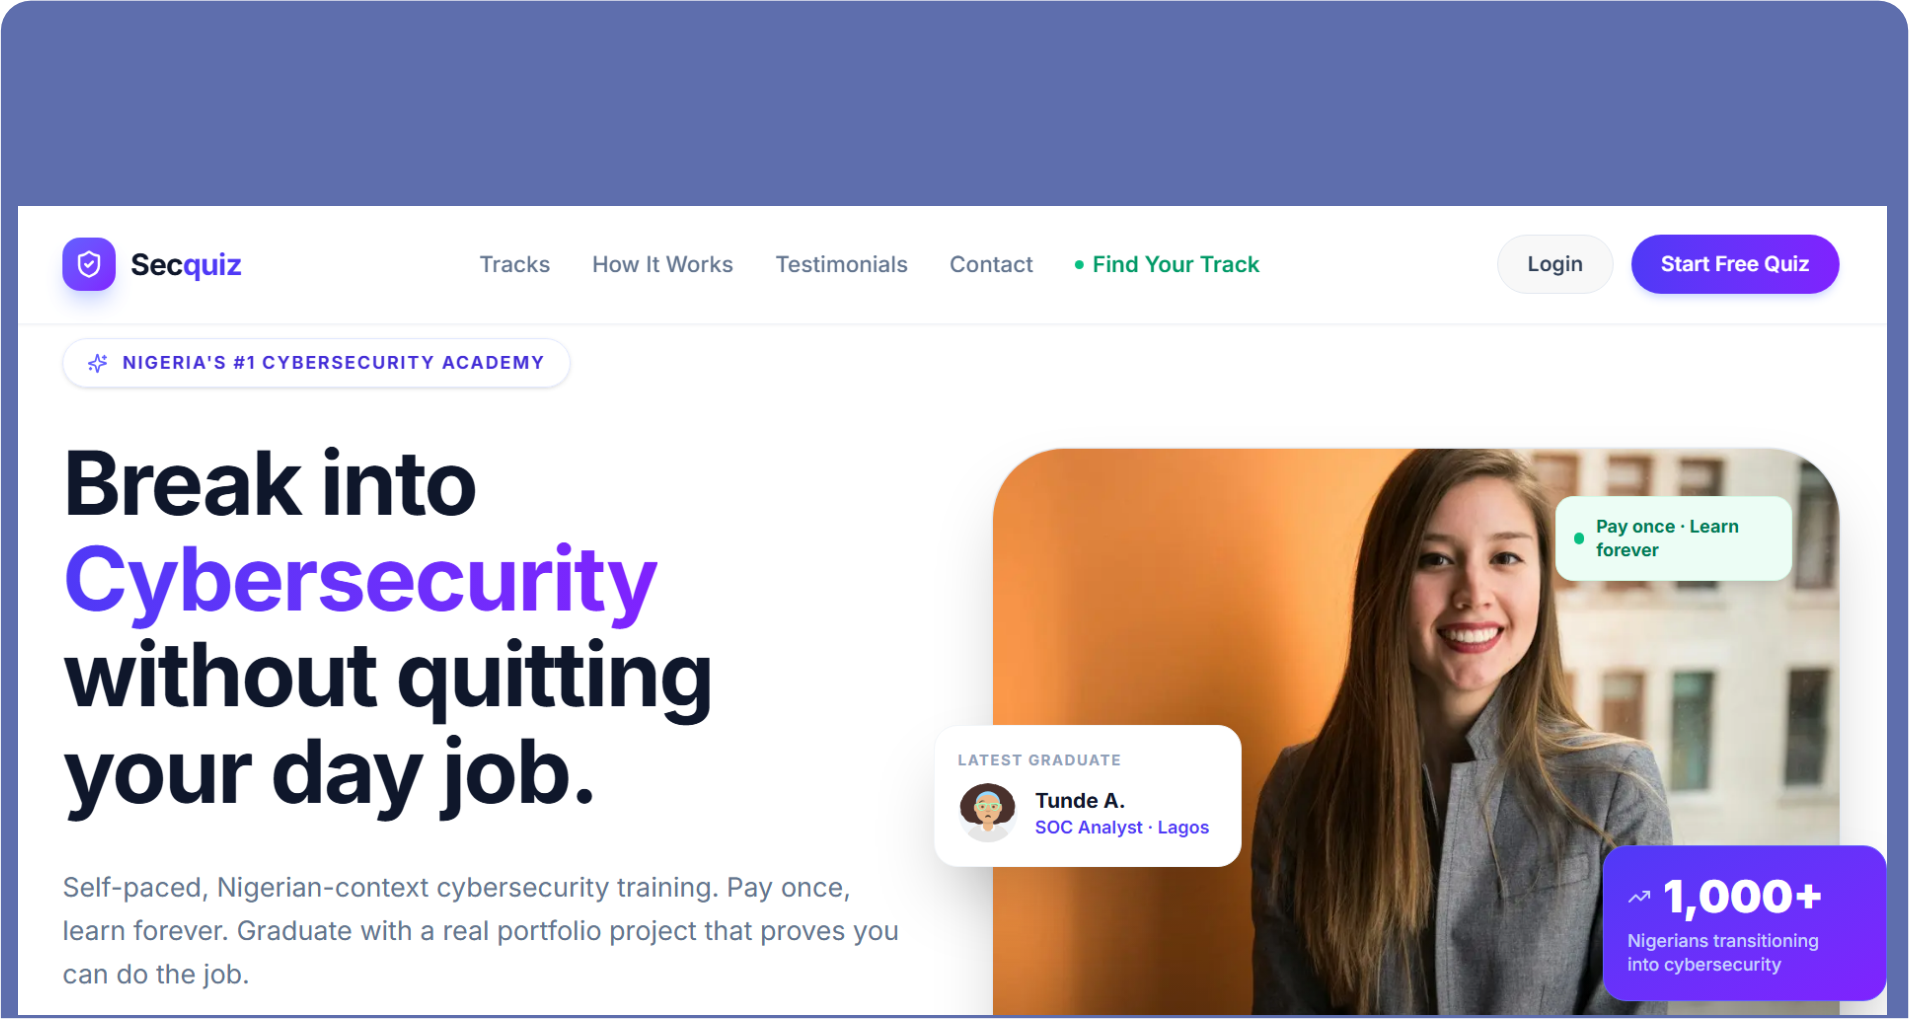
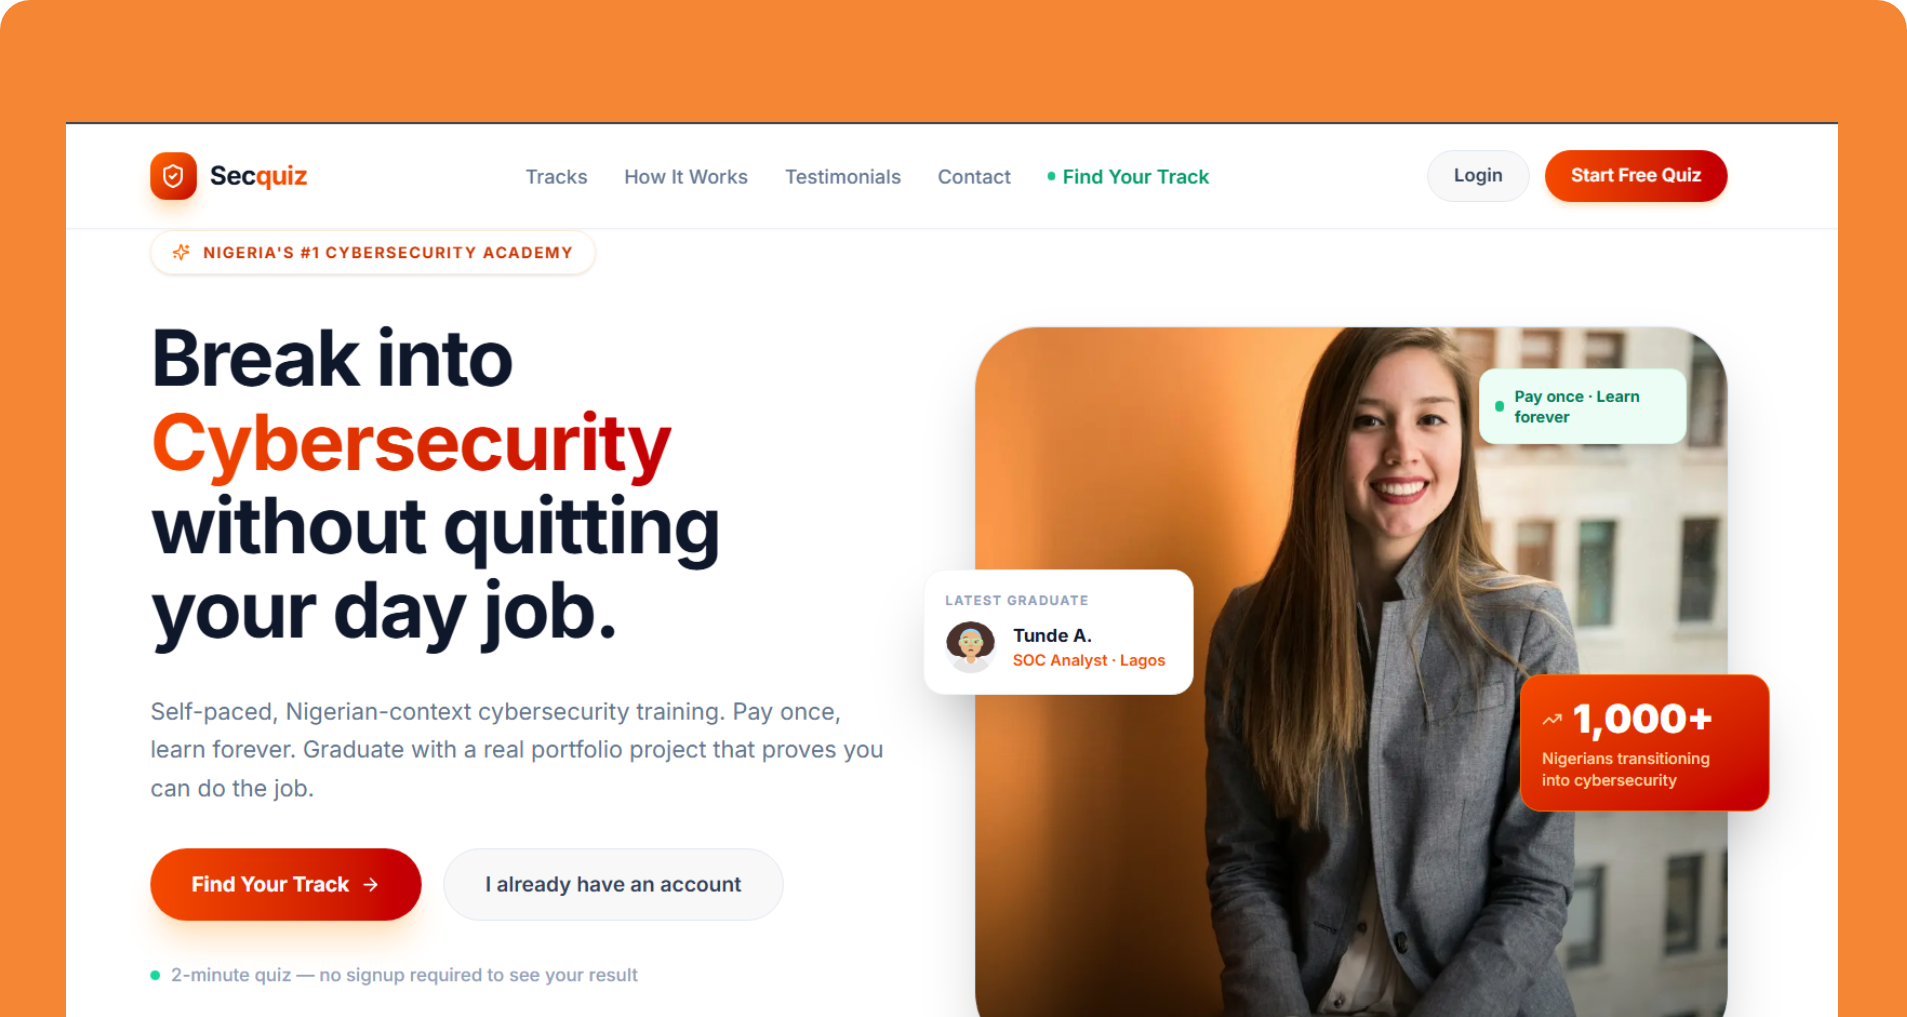
feat: add MediaSection and ProjectsSection components and clean up unused package dependencies

diff --git a/components/ProjectsSection.tsx b/components/ProjectsSection.tsx
@@ -9,7 +9,7 @@ import { FiShare2 } from "react-icons/fi"
 
 const projects = [
   { id: "phytogenix", name: "Phytogenix", description: "PhytoGenix is a digital herbal clinical research platform. inspired by the collaborative work between Afe Babalola University and the Nigerian Institute of Medical Research.", image: "/phyto.png", link: "https://phytogenix.org" },
-  { id: "secacad", name: "Secacad", description: "Secacad is a cybersecurity skills assessment platform for individuals and organizations in Nigeria.", image: "/secacad.png", link: "https://secacad.vercel.app" },
+  { id: "secacad", name: "Secacad", description: "Secacad is a cybersecurity skills assessment platform for individuals and organizations in Nigeria.", image: "/secacad.png?v=1", link: "https://secacad.vercel.app" },
   { id: "panaceutics", name: "Panaceutics", description: "A biotech-driven company advancing wellness through science-backed, plant-based formulations.", image: "/panaceutics1.png", link: "https://panaceutics.org" },
   { id: "soprep", name: "Soprep", description: "Pass JAMB in one attempt! A JAMB quiz prep app with past questions, explanations, and progress tracking.", image: "/soprep.png", link: "https://soprep.app" },
   { id: "tizzle-shop", name: "Tizzle Shop", description: "Modern e-commerce for quality UK-used and premium products in Nigeria, with an integrated talent marketplace.", image: "/tizzle.png", link: "https://tizzleshop.vercel.app/" },
@@ -60,6 +60,7 @@ const ProjectsSection = () => {
                       alt={project.name}
                       width={600}
                       height={400}
+                      unoptimized={project.image.includes('?')}
                       className="w-full h-full object-cover group-hover:scale-105 transition-transform duration-500"
                     />
                   </div>

diff --git a/components/MediaSection.tsx b/components/MediaSection.tsx
@@ -119,6 +119,7 @@ const MediaSection = () => {
                           src={thumb}
                           alt={v.title}
                           fill
+                          unoptimized={thumb.startsWith("http")}
                           className="object-cover group-hover:scale-105 transition-transform duration-500"
                         />
                         {/* Play button overlay */}
